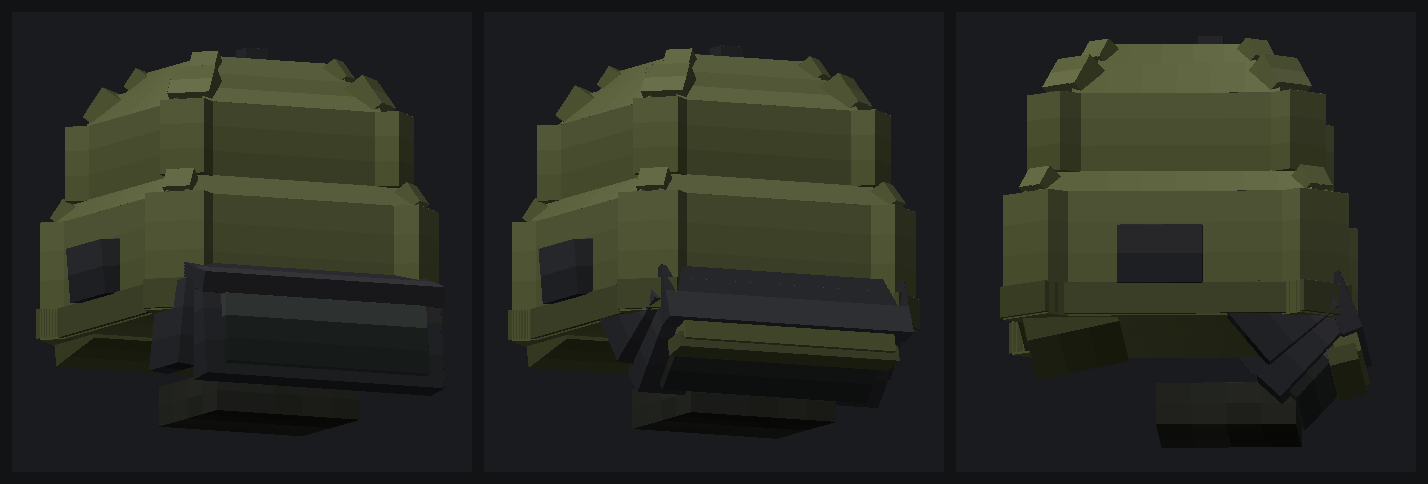
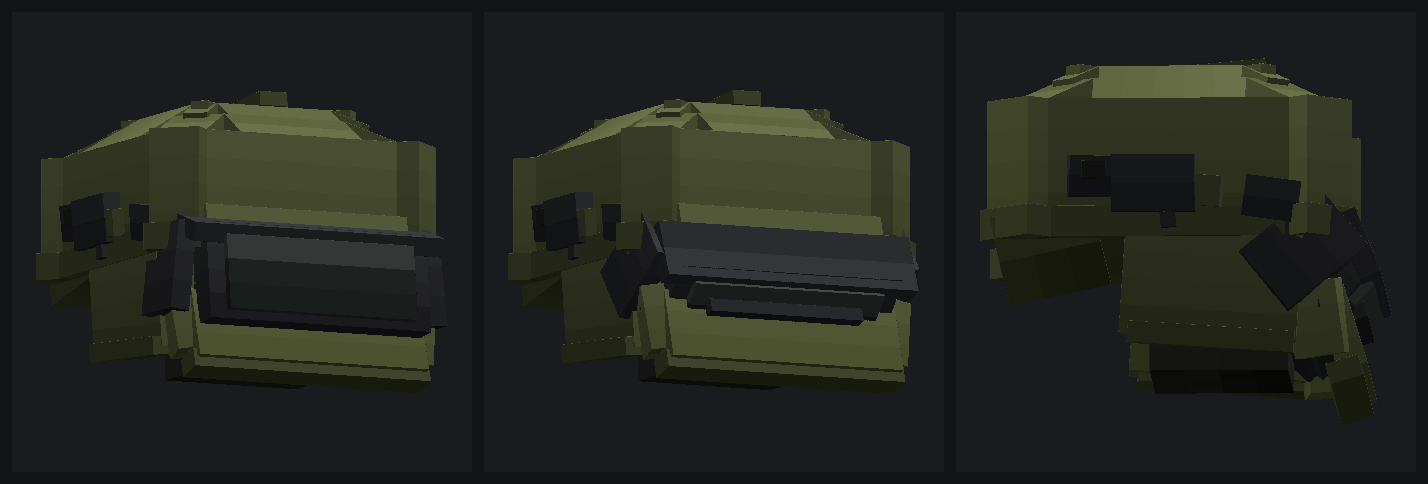
Add files via upload

diff --git a/tools/geom.py b/tools/geom.py
@@ -54,44 +54,55 @@ def corner_posts(bone, prefix, x0, x1, z0, z1, y, h, c, t, mat):
 
 
 def top_chamfers(bone, prefix, x0, x1, z0, z1, ytop, b, t, mat, ends=None,
-                 corner_c=None):
-    """Four slabs rotated 45 degrees off horizontal, one per top edge, so the
-    crown falls away instead of ending in a hard rim.
+                 corner_c=None, rise=None):
+    """Four sloping slabs, one per top edge, so the crown falls away instead of
+    ending in a hard rim.
 
-    Each slab's top face runs from (ytop, edge + b) down to (ytop - b, edge),
-    which is why its length is b*sqrt(2): rotating that length by 45 degrees
-    lands it exactly on both endpoints.
+    Each slab's top face runs from (ytop, edge + b) down to (ytop - rise, edge),
+    so its length is hypot(b, rise) and its tilt is atan(rise / b).
+
+    `rise` defaults to `b`, the 45-degree case. Setting it *smaller* than `b`
+    is what makes a crown read as a dome rather than a plateau at gameplay
+    scale: the silhouette is set by how far the top draws in, not by how tall
+    the chamfer is, and a short helmet has no height to spend.
     """
-    L = b * R2
+    rise = b if rise is None else rise
+    L = math.hypot(b, rise)
+    ang = math.degrees(math.atan2(rise, b))
     # Each slab stops short of the corners. Running them full width makes
-    # neighbouring slabs cross and poke spikes out of the crown, because at the
-    # corner one slab's top edge sits a full bevel above the other's plane.
-    # Stopping exactly at the octagon's corner cut is what lets the corner
-    # facet below meet them edge to edge instead of overlapping or gapping.
+    # neighbouring slabs cross and poke spikes out of the crown.
+    #
+    # Inset by the corner cut *plus* the inset the ring makes as it rises. The
+    # slab is a rectangle but the octagon it caps narrows with height, so ends
+    # inset by only the corner cut sit inside the footprint at the bottom of
+    # the chamfer and outside it at the top — poking out as small wings on the
+    # crown's corners. Paying the inset up front trades that for a shortfall at
+    # the outer rim, which lands against the vertical wall below and hides.
     cc = corner_c if corner_c else b * 0.75
-    e = cc if ends is None else ends
+    e = (cc + b) if ends is None else ends
     ax0, ax1 = x0 + e, x1 - e
     az0, az1 = z0 + e, z1 - e
     out = [
         # north edge (-z): pivot on the inboard top edge, front edge swings down
         _c(bone, f"{prefix}_ch_n", [ax0, ytop - t, z0 + b - L], [ax1 - ax0, t, L], mat,
-           rot=[-45, 0, 0], pivot=[(ax0 + ax1) / 2, ytop, z0 + b]),
+           rot=[-ang, 0, 0], pivot=[(ax0 + ax1) / 2, ytop, z0 + b]),
         # south edge (+z)
         _c(bone, f"{prefix}_ch_s", [ax0, ytop - t, z1 - b], [ax1 - ax0, t, L], mat,
-           rot=[45, 0, 0], pivot=[(ax0 + ax1) / 2, ytop, z1 - b]),
+           rot=[ang, 0, 0], pivot=[(ax0 + ax1) / 2, ytop, z1 - b]),
         # east edge (+x)
         _c(bone, f"{prefix}_ch_e", [x1 - b, ytop - t, az0], [L, t, az1 - az0], mat,
-           rot=[0, 0, -45], pivot=[x1 - b, ytop, (az0 + az1) / 2]),
+           rot=[0, 0, -ang], pivot=[x1 - b, ytop, (az0 + az1) / 2]),
         # west edge (-x)
         _c(bone, f"{prefix}_ch_w", [x0 + b - L, ytop - t, az0], [L, t, az1 - az0], mat,
-           rot=[0, 0, 45], pivot=[x0 + b, ytop, (az0 + az1) / 2]),
+           rot=[0, 0, ang], pivot=[x0 + b, ytop, (az0 + az1) / 2]),
     ]
     # diagonal facets closing the four corner notches the insets leave behind,
     # continuing the octagon up through the crown
     # Sit them on the SAME corner chord as the octagon ring they cap. Using a
     # smaller cut here puts the facet outboard of the octagon below it, which
     # shows up as a nub sticking out of the crown.
-    out += corner_facets(bone, f"{prefix}_cnr", x0, x1, z0, z1, ytop, b, t, mat, cc)
+    out += corner_facets(bone, f"{prefix}_cnr", x0, x1, z0, z1, ytop, b, t, mat,
+                         cc, rise)
     return out
 
 
@@ -112,7 +123,7 @@ def euler_xyz_from_basis(bx, by, bz):
     return [math.degrees(rx), math.degrees(ry), math.degrees(rz)]
 
 
-def corner_facets(bone, prefix, x0, x1, z0, z1, ytop, b, t, mat, c):
+def corner_facets(bone, prefix, x0, x1, z0, z1, ytop, b, t, mat, c, rise=None):
     """Four sloping facets closing the corners of a chamfer ring.
 
     The ring below is an octagon: each corner is already a flat cut of chord
@@ -122,24 +133,25 @@ def corner_facets(bone, prefix, x0, x1, z0, z1, ytop, b, t, mat, c):
     point — sizing these by eye is what left the corners looking like wedges
     stuck on top of the crown.
 
-    The surface itself lies at 35.26 degrees off horizontal — the ring insets by
-    b on *each* horizontal axis, so across the corner it travels b*sqrt(2) while
-    rising only b. Its normal is therefore (sx, 2, sz)/sqrt(6), 54.7 degrees up
-    from horizontal. Using (sx, 1, sz)/sqrt(3) instead — the obvious guess, and
-    what this did before — tilts the plate out of the surface, which is what put
-    the little spikes along the crown: one end of the plate ends up above ytop.
+    The ring insets by b on *each* horizontal axis while rising by `rise`, so
+    across the corner the surface travels b*sqrt(2) horizontally. Its normal is
+    therefore proportional to (sx*rise, 2b, sz*rise). At rise == b that reduces
+    to (sx, 2, sz)/sqrt(6) — 54.7 degrees up from horizontal for a 35.26-degree
+    surface. Using (sx, 1, sz)/sqrt(3) instead, the obvious guess, tilts the
+    plate out of the surface so one end finishes above ytop, which is what put
+    the row of little spikes along the crown.
     """
+    rise = b if rise is None else rise
     out = []
-    six = 1.0 / math.sqrt(6.0)
     diag = 1.0 / math.sqrt(2.0)
-    # A true octagonal chamfer narrows as it rises, so the exact patch here is a
-    # trapezoid; a cube cannot be one. Widening past the corner chord and
-    # sliding the plate up-slope trades the notch it would otherwise leave at
-    # the inner rim — right on the crown silhouette — for a shortfall at the
-    # outer rim, where the ring's own corner post is already standing.
-    L = (c + b * 0.35) * R2
-    depth = b * math.sqrt(3.0)      # outer chord to inner chord, along the slope
-    lift = 0.0                 # up-slope, away from the outer rim
+    # Exactly the corner chord — no wider.
+    #
+    # Widening it past the chord looks harmless in a large preview and is not:
+    # the extra length runs along the chord, so both ends push out beyond the
+    # octagon and read as small wings on the crown's top corners. At 30 pixels
+    # on a player's head that is the most visible thing about the helmet.
+    L = c * R2
+    depth = math.sqrt(2 * b * b + rise * rise)   # outer chord to inner chord
     specs = [
         ("fr", 1.0, -1.0),   # +x / -z
         ("fl", -1.0, -1.0),  # -x / -z
@@ -147,7 +159,9 @@ def corner_facets(bone, prefix, x0, x1, z0, z1, ytop, b, t, mat, c):
         ("bl", -1.0, 1.0),   # -x / +z
     ]
     for tag, sx, sz in specs:
-        n = (sx * six, 2.0 * six, sz * six)    # outward and up
+        n = (sx * rise, 2.0 * b, sz * rise)    # outward and up
+        ln = math.sqrt(n[0] ** 2 + n[1] ** 2 + n[2] ** 2)
+        n = (n[0] / ln, n[1] / ln, n[2] / ln)
         u = (-sz * diag, 0.0, sx * diag)       # along the chord
         w = (u[1] * n[2] - u[2] * n[1],        # up-slope
              u[2] * n[0] - u[0] * n[2],
@@ -157,9 +171,9 @@ def corner_facets(bone, prefix, x0, x1, z0, z1, ytop, b, t, mat, c):
         oz = (z1 - c / 2) if sz > 0 else (z0 + c / 2)
         # centre = halfway between the outer chord and the inner one above it,
         # then sunk half a thickness so the outer face lands on the surface
-        cx = ox - sx * b / 2 - n[0] * t / 2 + w[0] * lift
-        cy = ytop - b / 2 - n[1] * t / 2 + w[1] * lift
-        cz = oz - sz * b / 2 - n[2] * t / 2 + w[2] * lift
+        cx = ox - sx * b / 2 - n[0] * t / 2
+        cy = ytop - rise / 2 - n[1] * t / 2
+        cz = oz - sz * b / 2 - n[2] * t / 2
         out.append(_c(bone, f"{prefix}_{tag}",
                       [cx - L / 2, cy - t / 2, cz - depth / 2],
                       [L, t, depth], mat,
@@ -180,7 +194,7 @@ def _oct_ring(bone, prefix, x0, x1, z0, z1, y, h, corner, plate, mat):
 
 def dome(bone, prefix, x0, x1, z0, z1, ybot, ytop, mat,
          corner=1.1, bevel=1.2, plate=1.3, taper=0.45, cap_mat=None,
-         crown_steps=2):
+         crown_steps=2, flare=1.0):
     """A rounded, faceted dome.
 
     Octagonal in plan, tapered inward as it rises, and finished with a
@@ -227,17 +241,28 @@ def dome(bone, prefix, x0, x1, z0, z1, ybot, ytop, mat,
                          z0 + taper, z1 - taper, y_upper, upper_h,
                          up_corner, plate, mat)
 
-    # crown
-    t0, t1 = taper, taper + b1
+    # Crown. `flare` is how far each step draws in per unit it rises: at 1.0 the
+    # chamfers are 45 degrees, above that they draw in faster than they climb.
+    #
+    # That knob exists because the silhouette of a dome is set by how small the
+    # top gets, not by how tall the chamfer is — and a helmet worn high has
+    # almost no height to spend above the skull. At 45 degrees a 1.4-unit crown
+    # only pulls in 1.4, which on a 9-wide shell is a plateau with a bevelled
+    # edge; it looks domed at 400 pixels and flat at 30, which is the size that
+    # matters.
+    i1, i2 = b1 * flare, b2 * flare
+    t0, t1 = taper, taper + i1
     if b1 > 0:
         out += top_chamfers(bone, f"{prefix}_c1", x0 + t0, x1 - t0, z0 + t0, z1 - t0,
-                            y_crown + b1, b1, slab, mat, corner_c=up_corner)
+                            y_crown + b1, i1, slab, mat, corner_c=up_corner,
+                            rise=b1)
+    crown_c = max(0.5, up_corner - i1 * 0.5)
     out += top_chamfers(bone, f"{prefix}_c2", x0 + t1, x1 - t1, z0 + t1, z1 - t1,
-                        ytop, b2, slab, mat, corner_c=max(0.5, up_corner - b1 * 0.5))
+                        ytop, i2, slab, mat, corner_c=crown_c, rise=b2)
     # The flat top. Octagonal like every other slice — a plain box here leaves
     # four square corners standing outside the chamfer ring that caps it.
-    inset = t1 + b2
-    cap_c = max(0.4, up_corner - b1 * 0.5)
+    inset = t1 + i2
+    cap_c = max(0.4, crown_c - i2 * 0.5)
     out += _oct_ring(bone, f"{prefix}_cap", x0 + inset, x1 - inset,
                      z0 + inset, z1 - inset, ytop - b2, b2, cap_c, slab, cap_mat)
     return out

diff --git a/tools/helmets.py b/tools/helmets.py
@@ -33,6 +33,13 @@ it all the way round — so the wall runs straight to the top of the head and al
 the rounding lives in the crown above it. `fit_check.py` asserts this at 16
 azimuths; run it after moving anything.
 
+Judge all of this at GAME scale, not preview scale. A helmet is about 30 pixels
+on a player's head; `fit_check.py` renders at 430 for detail, which flatters
+everything. A crown chamfer that reads as a dome at 400 pixels is a plateau at
+30, and a facet poking half a unit past the shell is invisible in a big render
+and the most obvious thing about the helmet in game. `preview/worn_game_scale.png`
+is rendered at the size the game draws — check there before believing anything.
+
 The same 8-cube rules the trim. Anything hung on the shell has to clear the head
 to be drawn at all: side hardware past |x| 4.0, brow and chin work forward of
 z -4.0, seams above the crown it sits on. A detail tucked "under the jaw" is
@@ -45,7 +52,7 @@ from geom import dome, plain, tilted, corner_posts, chinstrap
 # --------------------------------------------------------------- bastion ----
 BASTION = (
     dome("Head", "shell", -4.60, 4.60, -4.60, 4.60, 28.40, 33.40, "shell_black",
-         corner=1.18, bevel=1.40, plate=1.35, taper=0.0)
+         corner=1.18, bevel=1.40, plate=1.35, taper=0.0, flare=1.55)
     + [
         # brow, raked forward so the front edge is not a flat wall
         tilted("Head", "brow", [-4.40, 28.10, -4.95], [8.80, 0.95, 1.35], "shell_black",
@@ -151,7 +158,7 @@ K63 = (
     # runs straight to the top of the head and the two-step crown does all the
     # rounding — see the module docstring for why a taper cannot go below y 32.
     dome("Head", "dome", -4.62, 4.62, -4.62, 4.62, 28.35, 33.20, "olive",
-         corner=1.20, bevel=1.20, plate=1.50, taper=0.0)
+         corner=1.20, bevel=1.20, plate=1.50, taper=0.0, flare=1.70)
     + [
         # raised brow band, proud of the shell all the way round
         plain("Head", "band_x", [-4.84, 28.05, -3.30], [9.68, 0.85, 6.60], "olive_dark"),
@@ -276,7 +283,7 @@ K63 = (
 # ----------------------------------------------------------------- untar ----
 UNTAR = (
     dome("Head", "shell", -4.64, 4.64, -4.64, 4.64, 28.35, 33.40, "un_blue",
-         corner=1.24, bevel=1.40, plate=1.40, taper=0.0)
+         corner=1.24, bevel=1.40, plate=1.40, taper=0.0, flare=1.55)
     + [
         # all-round brim, each edge tipped slightly downward so the rim reads
         # as a curve rather than a shelf

diff --git a/tools/build_models.py b/tools/build_models.py
@@ -353,6 +353,15 @@ def build(name, cubes, tex_size, seed, extra_bones=()):
 
 
 if __name__ == "__main__":
+    import shutil
+
     import helmets
+
+    # Wipe the staging tree first. Without this it accumulates output for every
+    # model that has ever existed — renaming zsh to k63 or dropping the scav set
+    # leaves the old files sitting here looking current, and anything that
+    # copies the directory wholesale (a zip, a sync) picks them up again.
+    shutil.rmtree(os.path.join(OUT, "out"), ignore_errors=True)
+
     for name, (cubes, size, seed, extra) in helmets.HELMET_MODELS.items():
         build(name, cubes, size, seed, extra)
